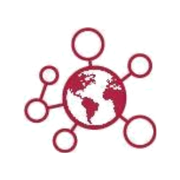
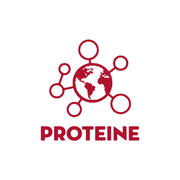
v0.39.1 : icône Protéine sur l'écran d'accueil du téléphone (#39)
* v0.39.1 : icône Protéine sur l'écran d'accueil du téléphone

Claude-Session: https://claude.ai/code/session_01Ngze374z41wnCeTEHqFVat

* Icône : logo rouge sur fond blanc

Claude-Session: https://claude.ai/code/session_01Ngze374z41wnCeTEHqFVat

---------

Changed region(s): [[0.1111, 0.1389, 0.8889, 0.8611]]

diff --git a/index.html b/index.html
@@ -11,7 +11,7 @@
 <meta name="theme-color" content="#B0122E">
 <link rel="icon" type="image/png" sizes="32x32" href="favicon-32.png">
 <link rel="icon" href="favicon.ico" sizes="any">
-<link rel="apple-touch-icon" sizes="180x180" href="icone-180.png">
+<link rel="apple-touch-icon" sizes="180x180" href="icone-180.png?v=2">
 <meta name="apple-mobile-web-app-capable" content="yes">
 <meta name="apple-mobile-web-app-title" content="CRM Protéine">
 <link rel="preconnect" href="https://fonts.googleapis.com">
@@ -1750,7 +1750,7 @@ button.vr-pt:hover{transform:scale(1.15)}
 
 <!-- LOGIN -->
 <div id="auth" class="auth">
-  <div class="auth-brand"><div class="mono"><img src="icone-512.png" alt="Protéine"></div><div><small>Club d'Affaires</small><b>Protéine Maroc</b></div></div>
+  <div class="auth-brand"><div class="mono"><img src="logo-globe-512.png" alt="Protéine"></div><div><small>Club d'Affaires</small><b>Protéine Maroc</b></div></div>
   <div class="auth-hero">
     <div class="eyebrow">CRM Animation · Saison 2026</div>
     <h1>Le réseau,<br>piloté au&nbsp;cordeau.</h1>
@@ -1771,7 +1771,7 @@ button.vr-pt:hover{transform:scale(1.15)}
 <div id="app" class="app hidden">
   <div class="topbar">
     <div class="tb-row">
-      <div class="mono"><img src="icone-512.png" alt="Protéine"></div>
+      <div class="mono"><img src="logo-globe-512.png" alt="Protéine"></div>
       <div class="who"><b id="tb-name">—</b><span id="tb-region">—</span></div>
     </div>
     <div class="tb-row tb-row2">
@@ -1820,8 +1820,12 @@ const STATUTS={planifiee:"Planifiée",confirmee:"Confirmée",realisee:"Réalisé
 const GUEST_STATUTS=["À confirmer","Intéressé","Non intéressé","À intégrer","Membre"];
 
 /* ---- Version & notes de mise à jour ---- */
-const APP_VERSION="0.39.0";
+const APP_VERSION="0.39.1";
 const CHANGELOG=[
+  {v:"0.39.1",date:"10 novembre 2026",notes:{
+    "Amélioré":[
+      "Nouvelle icône sur l'écran d'accueil du téléphone : le logo Protéine (le globe et « PROTEINE ») en rouge sur fond blanc, pour le CRM, l'espace membre et le formulaire d'adhésion. Pour la voir sur un téléphone où le CRM est déjà installé, il faut retirer l'icône et ajouter de nouveau le CRM à l'écran d'accueil."
+    ]}},
   {v:"0.39.0",date:"10 novembre 2026",notes:{
     "Ajouté":[
       "Formulaire d'adhésion : un champ « Votre spécialité, en vos mots » sous le métier. Celui qui ne trouve pas son métier exact dans la liste officielle prend le plus proche (ou « - Autre - », la précision devient alors obligatoire) et écrit le sien, par exemple « Entreprise tous corps d'état (TCE) ». La spécialité est écrite sur le PDF, à côté du métier (ou en tête des commentaires si la ligne est trop courte).",
@@ -5738,7 +5742,7 @@ async function rpPdf(){
     const txt=(t,x,yy,o={})=>page.drawText(pdfTxt(t),{x,y:yy,size:o.s||10,font:o.b?fb:f,color:o.c||IN});
     const nouvellePage=()=>{page=doc.addPage([595.28,841.89]);y=790};
     const besoin=h=>{if(y-h<60)nouvellePage()};
-    try{const png=await (await fetch("icone-192.png")).arrayBuffer();const im=await doc.embedPng(png);page.drawImage(im,{x:X+WD-40,y:y-14,width:40,height:40})}catch(e){}
+    try{const png=await (await fetch("logo-globe-192.png")).arrayBuffer();const im=await doc.embedPng(png);page.drawImage(im,{x:X+WD-40,y:y-14,width:40,height:40})}catch(e){}
     txt(d.titre,X,y,{s:19,b:1,c:DE});y-=18;txt(d.perim+" · établi par "+d.auteur,X,y,{s:10,c:MU});y-=12;
     page.drawRectangle({x:X,y,width:WD,height:2.5,color:CR});y-=26;
     const sec=t=>{besoin(40);txt(t.toUpperCase(),X,y,{s:10,b:1,c:CR});y-=16};
@@ -5838,7 +5842,7 @@ function cstRender(){
   _cst.pos=pos;
   const coeur=`<g class="cst-c"><circle class="cst-cp" cx="${cx}" cy="${cy}" r="62"/><circle cx="${cx}" cy="${cy}" r="48" fill="url(#cstg)"/><text x="${cx}" y="${cy+1}" class="cst-cn">${tot}</text><text x="${cx}" y="${cy+19}" class="cst-cs">membre${tot>1?"s":""}</text></g>`;
   const h=new Date().toLocaleTimeString("fr-FR",{hour:"2-digit",minute:"2-digit"});
-  o.innerHTML=`<div class="cst-top"><span class="mono"><img src="icone-192.png" alt=""></span><div><small>Club d'Affaires Protéine Maroc</small><b>Le réseau aujourd'hui</b></div><span class="cst-clk" id="cst-clk">${h}</span>
+  o.innerHTML=`<div class="cst-top"><span class="mono"><img src="logo-globe-192.png" alt=""></span><div><small>Club d'Affaires Protéine Maroc</small><b>Le réseau aujourd'hui</b></div><span class="cst-clk" id="cst-clk">${h}</span>
       <button class="cst-btn" onclick="closeConstellation();openPresentation()">▶ Diaporama</button><button class="cst-x" aria-label="Fermer" onclick="closeConstellation()">✕</button></div>
     <div class="cst-mid"><div class="cst-ciel" id="cst-ciel"><svg viewBox="0 0 ${W} ${H}" role="img" aria-label="Constellation : ${nR} régions, ${nG} groupes, ${tot} membres"><defs><radialGradient id="cstg"><stop offset="0" stop-color="#E0425C"/><stop offset="1" stop-color="#5C0A18"/></radialGradient></defs>
       <g class="cst-et">${et}</g>${liens}${com}${orb}${coeur}${astres}</svg><div class="cst-tip" id="cst-tip" hidden></div></div>
@@ -5883,7 +5887,7 @@ function openPresentation(){
 function showRender(){
   const o=document.getElementById("show-o");if(!o)return;const S=showSlides();_sh.i=(_sh.i+S.length)%S.length;
   o.innerHTML=`<div class="tap"><button aria-label="Diapositive précédente" onclick="showGo(-1)"></button><button aria-label="Diapositive suivante" onclick="showGo(1)"></button></div>
-    <div class="h"><span class="mono"><img src="icone-192.png" alt=""></span><span><small>Club d'Affaires</small><b>Protéine Maroc</b></span><span class="clk">${new Date().toLocaleTimeString("fr-FR",{hour:"2-digit",minute:"2-digit"})}</span><button class="x" onclick="closePresentation()" aria-label="Quitter la présentation">✕</button></div>
+    <div class="h"><span class="mono"><img src="logo-globe-192.png" alt=""></span><span><small>Club d'Affaires</small><b>Protéine Maroc</b></span><span class="clk">${new Date().toLocaleTimeString("fr-FR",{hour:"2-digit",minute:"2-digit"})}</span><button class="x" onclick="closePresentation()" aria-label="Quitter la présentation">✕</button></div>
     <div class="sl">${S[_sh.i]}</div>
     <div class="sprog">${S.map((_,i)=>`<i class="${i<_sh.i?"done":i===_sh.i?"on":""}"><b></b></i>`).join("")}</div>`;
   clearTimeout(_sh.t);_sh.t=setTimeout(()=>showGo(1),7000);

diff --git a/sw.js b/sw.js
@@ -5,7 +5,7 @@ self.addEventListener("push", (e) => {
   let d = {};
   try { d = e.data ? e.data.json() : {}; } catch (_) { d = { title: "CRM Protéine", body: e.data && e.data.text() }; }
   e.waitUntil(self.registration.showNotification(d.title || "CRM Protéine", {
-    body: d.body || "", tag: d.tag, icon: "/icone-192.png", badge: "/icone-192.png", data: { url: d.url || "/" },
+    body: d.body || "", tag: d.tag, icon: "/icone-192.png?v=2", badge: "/icone-192.png?v=2", data: { url: d.url || "/" },
   }));
 });
 self.addEventListener("notificationclick", (e) => {

diff --git a/adhesion.html b/adhesion.html
@@ -6,7 +6,7 @@
 <title>Adhésion Protéine Maroc</title>
 <link rel="icon" type="image/png" sizes="32x32" href="favicon-32.png">
 <link rel="icon" href="favicon.ico" sizes="any">
-<link rel="apple-touch-icon" sizes="180x180" href="icone-180.png">
+<link rel="apple-touch-icon" sizes="180x180" href="icone-180.png?v=2">
 <meta name="theme-color" content="#B0122E">
 <meta name="description" content="Formulaire d'adhésion membre — Club d'affaires Protéine Maroc">
 <link rel="preconnect" href="https://fonts.googleapis.com">

diff --git a/membre.html b/membre.html
@@ -6,7 +6,7 @@
 <title>Espace membre Protéine</title>
 <link rel="icon" type="image/png" sizes="32x32" href="favicon-32.png">
 <link rel="icon" href="favicon.ico" sizes="any">
-<link rel="apple-touch-icon" sizes="180x180" href="icone-180.png">
+<link rel="apple-touch-icon" sizes="180x180" href="icone-180.png?v=2">
 <link rel="manifest" href="membre.webmanifest">
 <meta name="apple-mobile-web-app-capable" content="yes">
 <meta name="apple-mobile-web-app-title" content="Protéine">

diff --git a/CLAUDE.md b/CLAUDE.md
@@ -237,6 +237,8 @@ CRM de pilotage du réseau d'animation régional CAP MA. Socle initial : le plan
 - PDF : `metierLigne(d)` = « métier · spécialité » (la spécialité seule si « - Autre - »). Le champ Métier du PDF fait toute la largeur : même 120 caractères tiennent. Repli si la ligne ne tenait pas à 7 pt : métier officiel sur la ligne, « Spécialité : … » en tête des commentaires.
 - CRM : `adhMetier(d)` (spécialité, sinon métier, sinon l'activité si « - Autre - ») pour les cartes Demandes, la spécialité du membre à l'intégration et `mbMetier` ; champ dans la fiche de demande, l'export et la recherche. Banc `precis.mjs` 12/12.
 
+**📱 Icône Protéine sur l'écran d'accueil (v0.39.1, 10/11/2026)** — `icone-180/192/512.png` = globe + « PROTEINE » en crimson sur fond blanc (tirés de `logo-proteine.png`), liens en `?v=2` (manifestes, apple-touch-icon, `sw.js`) ; `adhesion.html` a aussi son apple-touch-icon. L'ancien globe rouge sur blanc sert toujours DANS l'appli sous `logo-globe-512.png` / `logo-globe-192.png` (connexion, constellation, présentation, PDF). Un téléphone qui a déjà l'icône garde l'ancienne : retirer puis réajouter.
+
 **⚠ À traiter** :
 1. **Tester le front câblé dans un navigateur** (login réel + CRUD) — non testable depuis les sessions Claude Code : l'hôte `*.supabase.co` est bloqué par l'egress policy.
 2. **Purger le mot de passe `cap2026`** : outil prêt en v0.33.0 (« Embarquer l'équipe »), reste à l'utiliser pour les 7 animateurs concernés.
